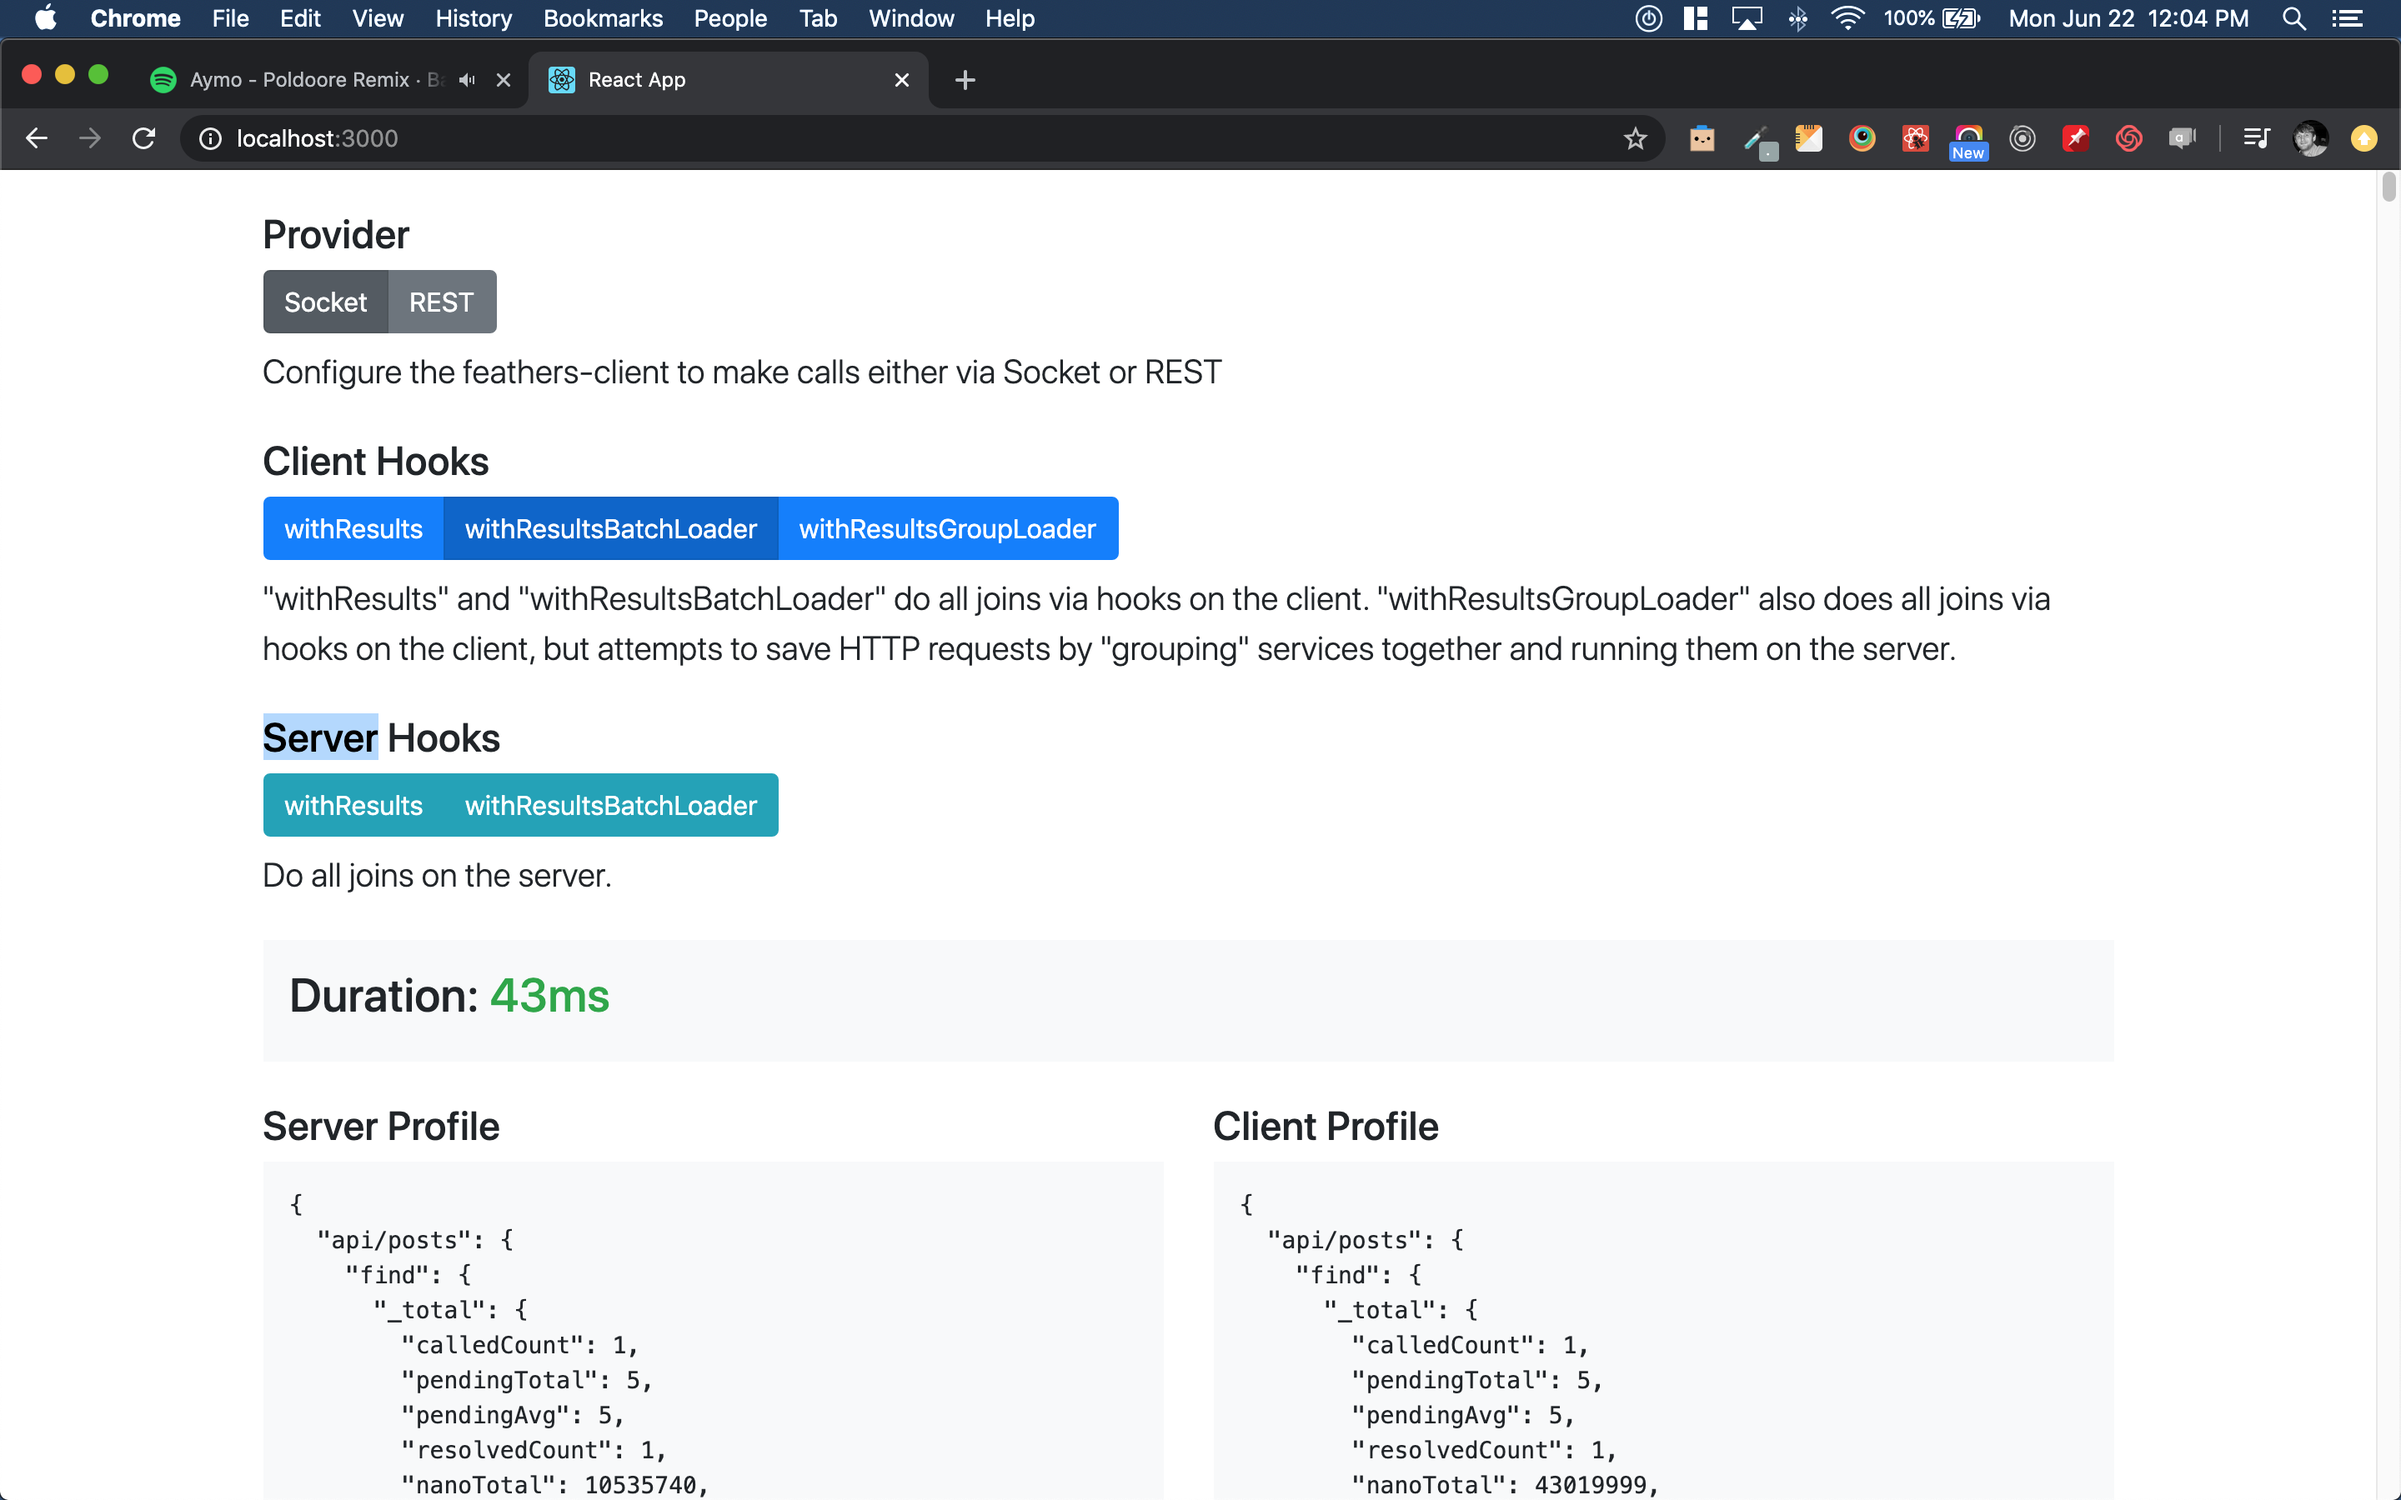
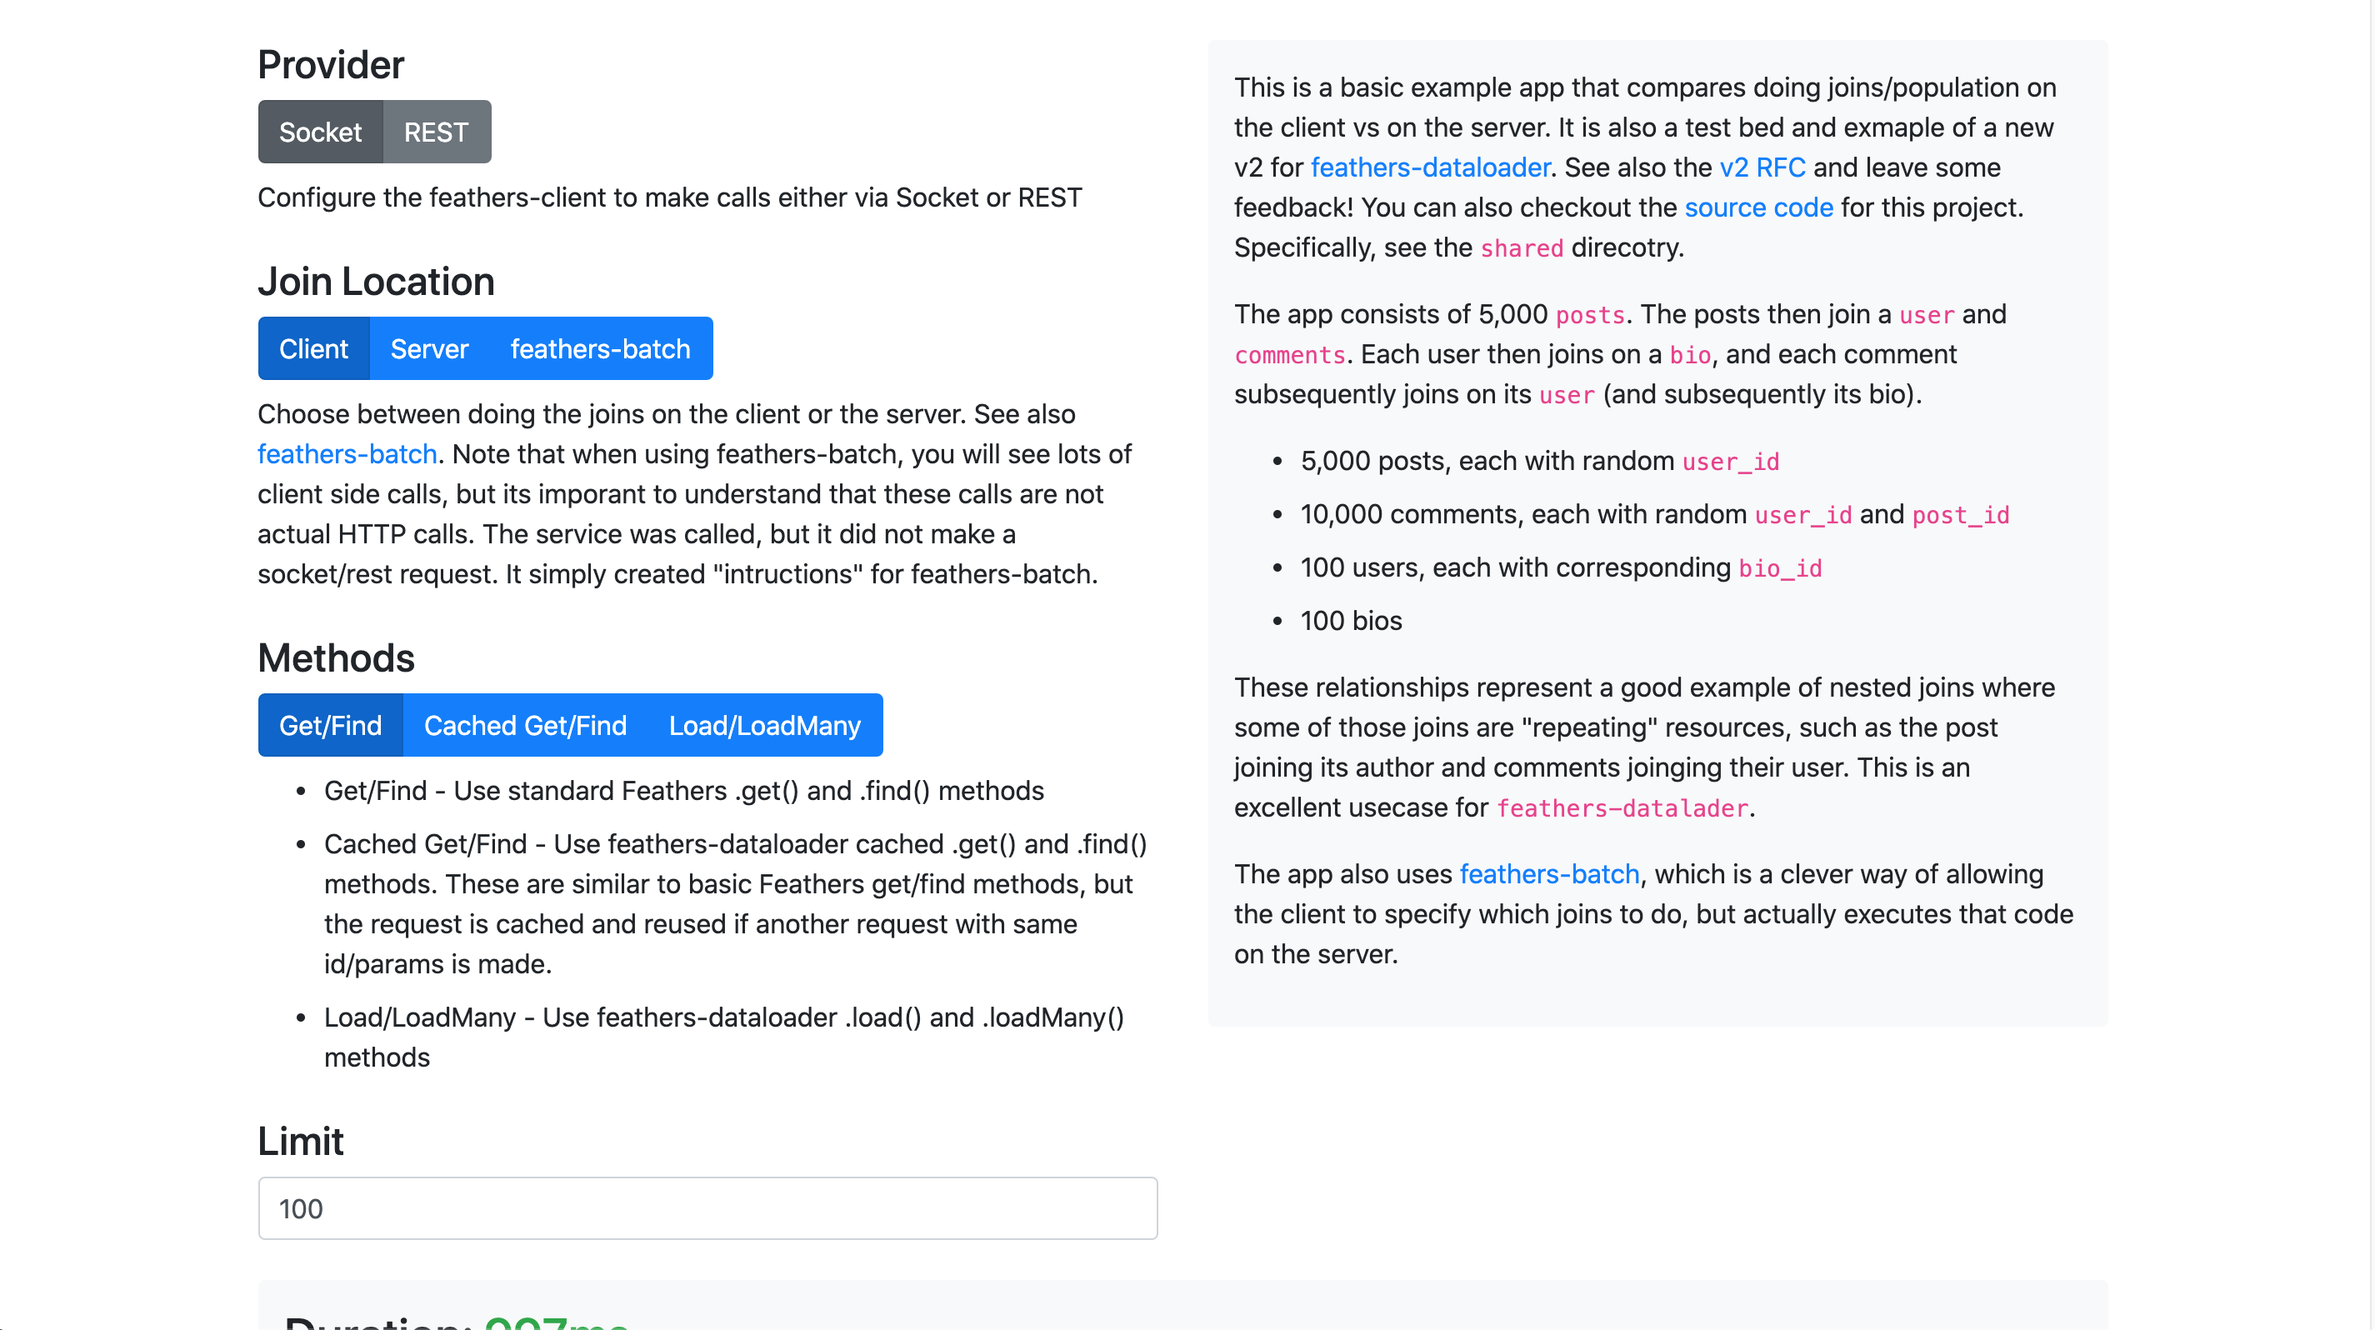
Update screenshot and README

diff --git a/README.md b/README.md
@@ -4,17 +4,20 @@
 
 ## About
 
-This project is a basic setup to test joining/populating records from the client and its performance compared to the equivalent server side implementation. It consists of a database with 5,000 `posts` where each post joins a `category` and `user`. Each category then joins a `tag` and each user then joins a `bio`. The purpose of this thought experiment is to test if it is feasible to do multi-level joins from the client, allowing the client to request what it wants, when it wants it and also keeping the server thin and dumb.
+This is a basic example app that compares doing joins/population on the client vs on the server. It is also a test bed and exmaple of a new v2 for [feathers-dataloader](https://github.com/feathersjs-ecosystem/batch-loader/tree/v2) . See also the [v2 RFC](https://github.com/feathersjs-ecosystem/batch-loader/issues/18) and leave some feedback! You can also checkout the [source code](https://github.com/DaddyWarbucks/test-feathers-client-joins) for this project. Specifically, see the `shared` direcotry.
 
-The project uses `withResults` from `feathers-fletching` to accomplish the joins on both server and client. It also uses `feathers-dataloader` on both.
-The combo of `withResults` and the `feathers-dataloader` is really solid and what most of my apps currently use on the server side. I wanted to see if I could move that all to client side, which was the genesis of this project.
+The app consists of 5,000 `posts`. The posts then join a `user` and `comments`. Each user then joins on a `bio`, and each comment subsequently joins on its `user` (and subsequently its bio).
 
-Both the server and client also implement `feathers-profiler` to display the services called, their duration, etc.
+- 5,000 posts, each with random `user_id`
+- 10,000 comments, each with random `user_id` and `post_id`
+- 100 users, each with corresponding `bio_id`
+- 100 bios
 
-I also made a video rambling through this thing and some of my thoughts
-[Video](https://www.loom.com/share/ae6ed46cf0ea44ceb33b34c99b6cdbc5)
+These relationships represent a good example of nested joins where some of those joins are "repeating" resources, such as the post joining its author and comments joinging their user. This is an excellent usecase for `feathers-datalader`.
 
-## Setup
+The app also uses [feathers-batch](https://github.com/feathersjs-ecosystem/feathers-batch) , which is a clever way of allowing the client to specify which joins to do, but actually executes that code on the server.
+
+## Development
 
 The client side uses create-react-app. Note this is not a React specific implementaion or idea. I simply used React and Bootstrap because I know them well and this was just a quick weekend project. There is not a unified start/dev/build script. You will need to open two terminals and run the server in one terminal and run CRA in another terminal.
 
@@ -29,46 +32,11 @@ yarn install
 yarn start
 ```
 
-## Takeaways
+## Deployment
 
-- When using sockets, joing from the client is very fast and the benefits it adds outweigh the very slight performance hit compared to doing it on the server, IMO.
-
-- When using sockets, network connection is less of a factor. Even on "Slow 3G" network throttling, the joins are very fast. Its seems that network connection speed has no effect (once the socket is connected)
-
-- When using REST, things are still pretty fast...I was impressed. It was faster than I expected. But the difference between it and the server implementation is substantial.
-
-feathers-batch idea has some legs. Not so much on a Socket implementation but certainly on REST. But, in order for it to be more performant, there has to be 6 or more of **concurrent** HTTP requests going on. With the default setup of joins in this example, its actually not any faster...because how `batchLoader` and `withResults` work the promises/http reqs are already optimized. Chrome generally allows up to 6 concurrent HTTP connections (See [Max Browser HTTP Connections](https://docs.pushtechnology.com/cloud/latest/manual/html/designguide/solution/support/connection_limitations.html)) and that means the current setup for the client `withResultsBatchLoader` only has two _concurrent_ connections at any time.
+The app is currently using a very poor-man's deployment solution. Run the create-react-app build command and then those assets are served from the server.
 
 ```js
-// This is how `withResultsBatchLoader` works
-
-// Two **concurrent** HTTP reqs
-await Promise.all([
-    app.service('api/comments').find({ query: { _id: { $in: [100 ids] } } })
-    app.service('api/users').find({ query: { _id: { $in: [100 ids] } } })
-]);
-
-// Then later, two more **concurrent** HTTP reqs
-await Promise.all([
-    app.service('api/bios').find({ query: { _id: { $in: [100 ids] } } })
-    app.service('api/tags').find({ query: { _id: { $in: [100 ids] } } })
-]);
+cd client
+yarn build
 ```
-
-```js
-// This is how `feathers-batch` works
-
-// One HTTP req
-await Promise.all([
-    app.service('api/batch').create([ category/batch instructions ])
-]);
-
-// Then later, one more HTTP req
-await Promise.all([
-    app.service('api/batch').create([ tag/bio instructions ])
-]);
-```
-
-So there is only two going on at anytime with `withResultsBatchLoader`...and Chrome (and most other browsers) allow up to 6. So the `feathers-batch` is not any faster because we aren't maxing out the concurrent requests.
-
-Checkout `client/src/feathers/posts` and you will notice that there are more joins commented out. Start uncommenting those and you will see that `feathers-batch` becomes more performant than `withResultsBatchLoader`
